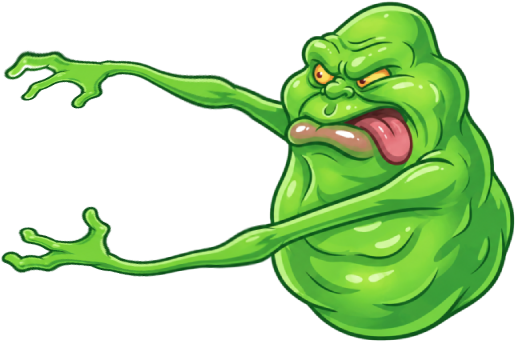
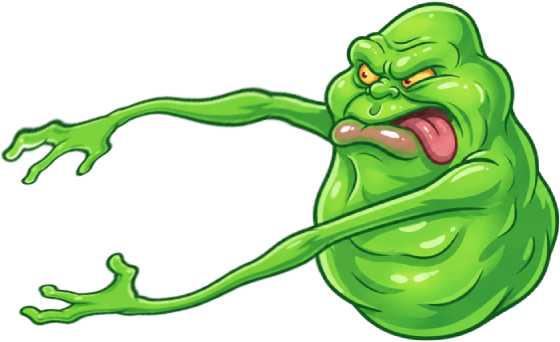
Update slimer image; nudge 3px right and 2px up.

diff --git a/styles.css b/styles.css
@@ -210,7 +210,7 @@ a:hover {
   position: absolute;
   left: 100%;
   top: 50%;
-  transform: translateY(-50%) translateX(-5px);
+  transform: translateY(calc(-50% - 2px)) translateX(-2px);
   height: 2.3rem;
   pointer-events: none;
   transition: transform 0.15s ease, opacity 0.15s ease;
@@ -220,7 +220,7 @@ a:hover {
 
 .sticky-toggle input:checked ~ .slimer-img {
   opacity: 1;
-  transform: translateY(-50%) translateX(calc(-0.4rem - 5px));
+  transform: translateY(calc(-50% - 2px)) translateX(calc(-0.4rem - 2px));
 }
 
 .visually-hidden {
